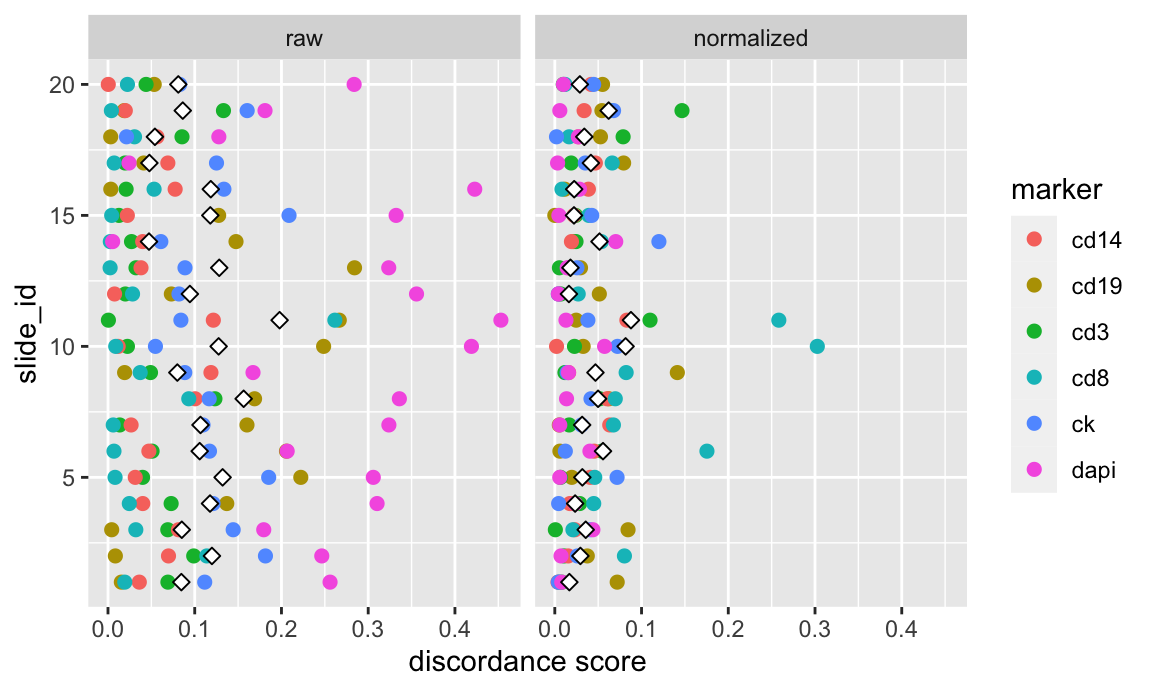
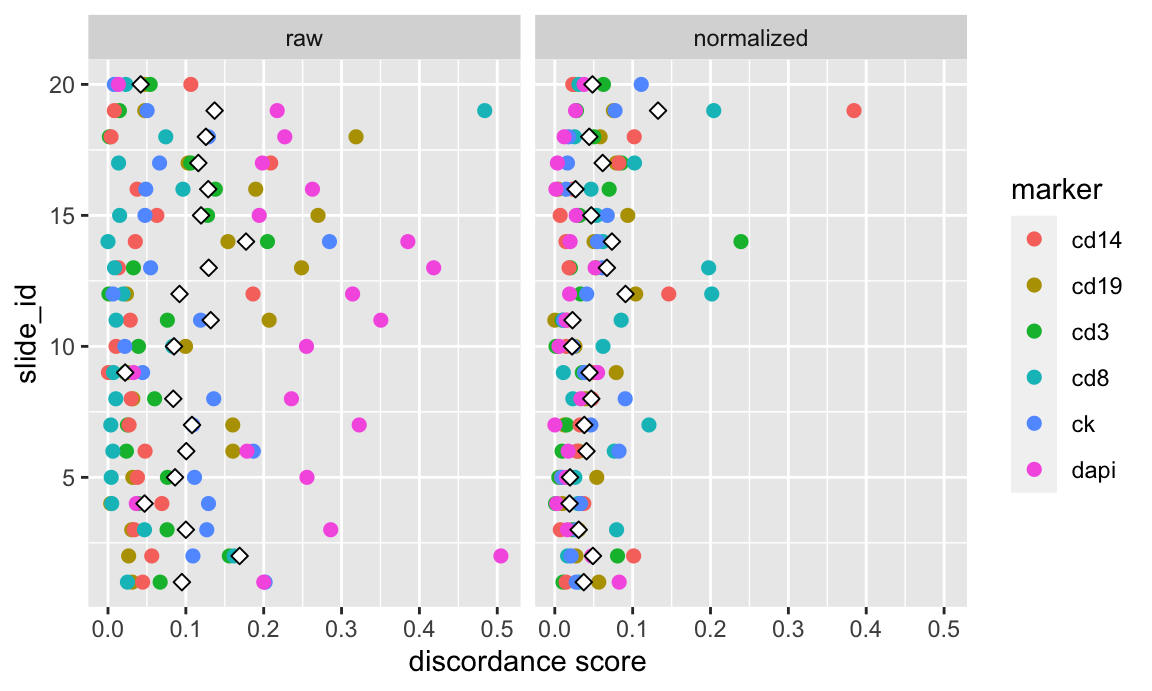
updates to normalization

diff --git a/MI_normalization.html b/MI_normalization.html
@@ -401,7 +401,9 @@ lung_df  = lung_df %&gt;% filter(patient_id %in% ids)</code></pre>
 <h2>Normalization</h2>
 <p>We will use the <code>mxnorm</code> package to normalize the lung
 data. More examples for working with this package are available in the
-package vignette.</p>
+<a
+href="https://cran.r-project.org/web/packages/mxnorm/vignettes/mxnorm-vignette.html">package
+vignette</a>.</p>
 <div id="setting-up-mx_dataset-object" class="section level3">
 <h3>Setting up <code>mx_dataset</code> object</h3>
 <p>The <code>mxnorm</code> package uses an S3 object-oriented framework
@@ -477,13 +479,13 @@ summary(mx_norm)
 ## 
 ## Anderson-Darling tests:
 ##       table mean_test_statistic mean_std_test_statistic mean_p_value
-##  normalized              69.816                  15.396            0
-##         raw             168.201                  45.203            0
+##  normalized              81.924                  19.064            0
+##         raw             196.099                  53.654            0
 ## 
 ## Threshold discordance scores:
 ##       table mean_discordance sd_discordance
-##  normalized            0.039          0.043
-##         raw            0.098          0.101</code></pre>
+##  normalized            0.047          0.051
+##         raw            0.103          0.105</code></pre>
 <p>Lower values of these metrics indicate better normalization.</p>
 </div>
 <div id="plotting" class="section level3">
@@ -547,7 +549,10 @@ otsu_data %&gt;%
              shape = 23, size = point_size) +
   labs(x = &quot;discordance score&quot;, y = &quot;slide_id&quot;)</code></pre>
 <p><img src="MI_normalization_files/figure-html/discordance_mxnorm-1.png" width="90%" /></p>
-<pre class="r"><code>rm(mx_data, mx_norm, mean_vals, otsu_data, discordance_score, ids, markers, point_size, mx_df)</code></pre>
+<p>It is also possible to evaluate user-defined normalization using the
+<code>mxnorm</code> package. See <a
+href="https://cran.r-project.org/web/packages/mxnorm/vignettes/mxnorm-vignette.html#user-defined-normalization">here</a>
+in the package vignette for an example.</p>
 </div>
 </div>
 <div id="references" class="section level2">

diff --git a/index.html b/index.html
@@ -344,7 +344,7 @@ class="section level4">
 <ul>
 <li><a href="https://simonvandekar.bitbucket.io/">Simon
 Vandekar</a></li>
-<li>Coleman Harris</li>
+<li><a href="https://colemanrharris.me/">Coleman Harris</a></li>
 </ul>
 <p><br></p>
 </div>
